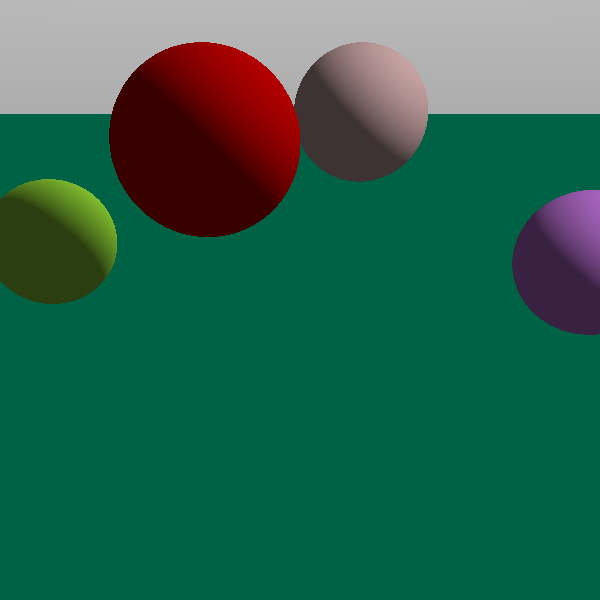
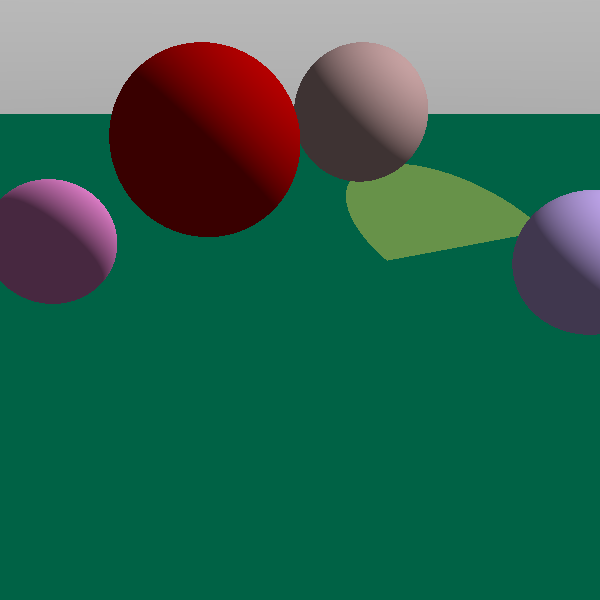
Finished Disc object

Changed region(s): [[0.57, 0.27, 1.0, 0.48], [0.0, 0.3, 0.21, 0.51]]

diff --git a/src/core/world/shapes/Disk.java b/src/core/world/shapes/Disk.java
@@ -2,6 +2,8 @@ package core.world.shapes;
 
 import core.world.ray.Ray;
 import core.world.ray.RayInfo;
+import core.world.shading.Material;
+import core.world.shading.MaterialType;
 import org.apache.commons.math3.geometry.euclidean.threed.Vector3D;
 
 /**
@@ -9,27 +11,75 @@ import org.apache.commons.math3.geometry.euclidean.threed.Vector3D;
  */
 public class Disk implements IShape
 {
-
     public double radius;
-    public Vector3D position;
-    Plane plane;
+    Material material;
+    double x;
+    double y;
+    double z;
+    double A;
+    double B;
+    double C;
+    double D;
+    Vector3D planeNormal;
 
+    public Disk(double x, double y, double z, double a, double b, double c, double d, double rad, Material material)
+    {
+        this.radius = rad;
+        this.material = material;
+        this.x = x;
+        this.y = y;
+        this.z = z;
+        this.A = a;
+        this.B = b;
+        this.C = c;
+        this.D = d;
+        this.planeNormal = new Vector3D(A, B, C);
+    }
+
+    private Vector3D get_center()
+    {
+        // A + (B/2)
+        // C + (D/2)
+
+        // Assuming:
+        //
+        // A ------- B
+        // |         |
+        // |         |
+        // |         |
+        // C ------- D
+        //
+        //Vector3D center =
+        return new Vector3D(x, y, z);
+    }
 
     public RayInfo intersects(Ray ray, double min, double max)
     {
-        float t = 0;
         RayInfo info = new RayInfo();
         info.didIntersect = false;
-        Vector3D l0 = ray.orig;
-        Vector3D l = ray.dir;
-        Vector3D p0 = position;
-        Vector3D n = new Vector3D(0, 0, 0); // TODO: Implement n as the plane normal
-       /* if (plane.intersectPlane(n, position, l0, l, t)) {
-            Vector3D p = l0.add(10, l.scalarMultiply(t)); //l0 + l.scalarMultiply(t);//l * t;
-            Vector3D v = p.subtract(p0);//p - p0;
-            float d2 = (float)v.dotProduct(v);//dot(v, v);
-            info.didIntersect = (Math.sqrt(d2) <= radius);
-        }*/
+        info.material = new Material(MaterialType.LAMBERTIAN, new Vector3D(255, 255, 255));
+        info.normal = new Vector3D(0, 0, 0);
+        info.point = new Vector3D(0, 0, 0);
+        info.t = 0.f;
+
+        Plane p = new Plane(A, B, C, D, material);
+        info = p.intersects(ray, min, max);
+        if(info.didIntersect)
+        {
+            //System.out.println("hit plane");
+            if(info.point.distance(get_center()) > radius)
+            {
+                //System.out.println("dst " + info.point.distance(get_center()));
+                info.didIntersect = false;
+                info.material = new Material(MaterialType.NONE, new Vector3D(0, 0, 0));
+                info.normal = new Vector3D(0, 0, 0);
+                info.point = new Vector3D(0, 0, 0);
+                info.t = 0.f;
+                return info;
+            }
+            //System.out.println("dst " + info.point.distance(get_center()));
+            return info;
+        }
 
         return info;
     }

diff --git a/src/core/Main.java b/src/core/Main.java
@@ -82,9 +82,7 @@ public class Main
 
             }
         }
-
     }
-
 
     public static void createAndAddObjects()
     {
@@ -117,9 +115,11 @@ public class Main
 
         Plane plane = new Plane(0, 1, -0.1, 0, new Material(MaterialType.LAMBERTIAN, new Vector3D(0.0, 0.2, 0.1)));
 
+        Disk disk = new Disk(4, 0, -5,1, 3, 1, 2, 3, new Material(MaterialType.LAMBERTIAN, new Vector3D(0.2, 0.4, 0.1)));
         //shapeList.add(tri);
         //shapeList.add(tri2);
         shapeList.add(plane);
+        shapeList.add(disk);
         //shapeList.add(tri);
         shapeList.add(mySphere_1);
         shapeList.add(mySphere_4);
